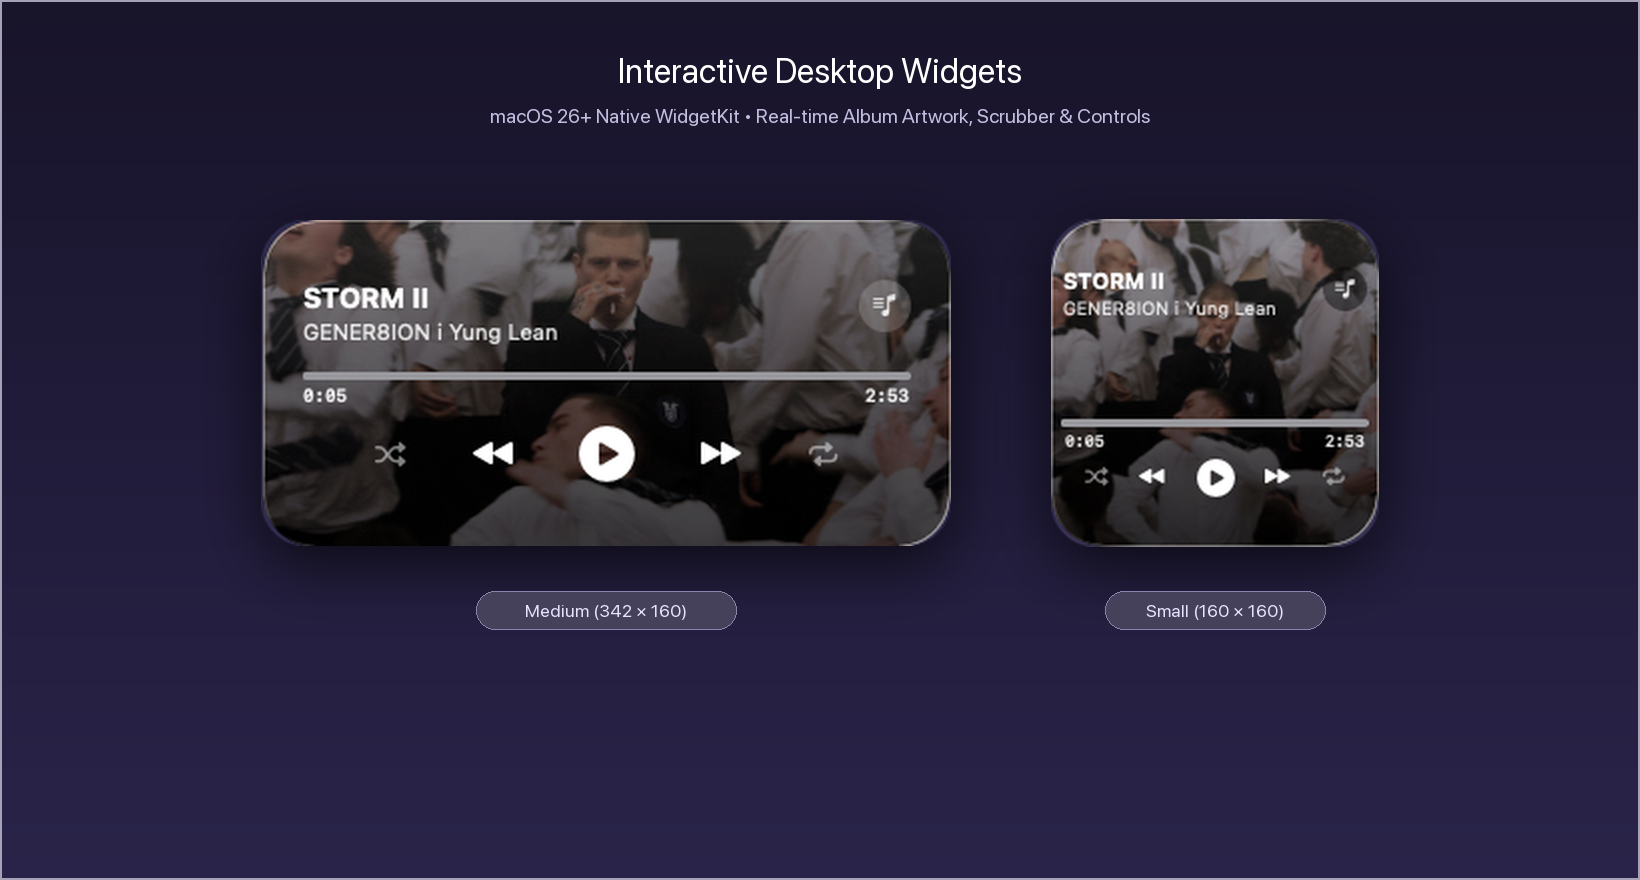
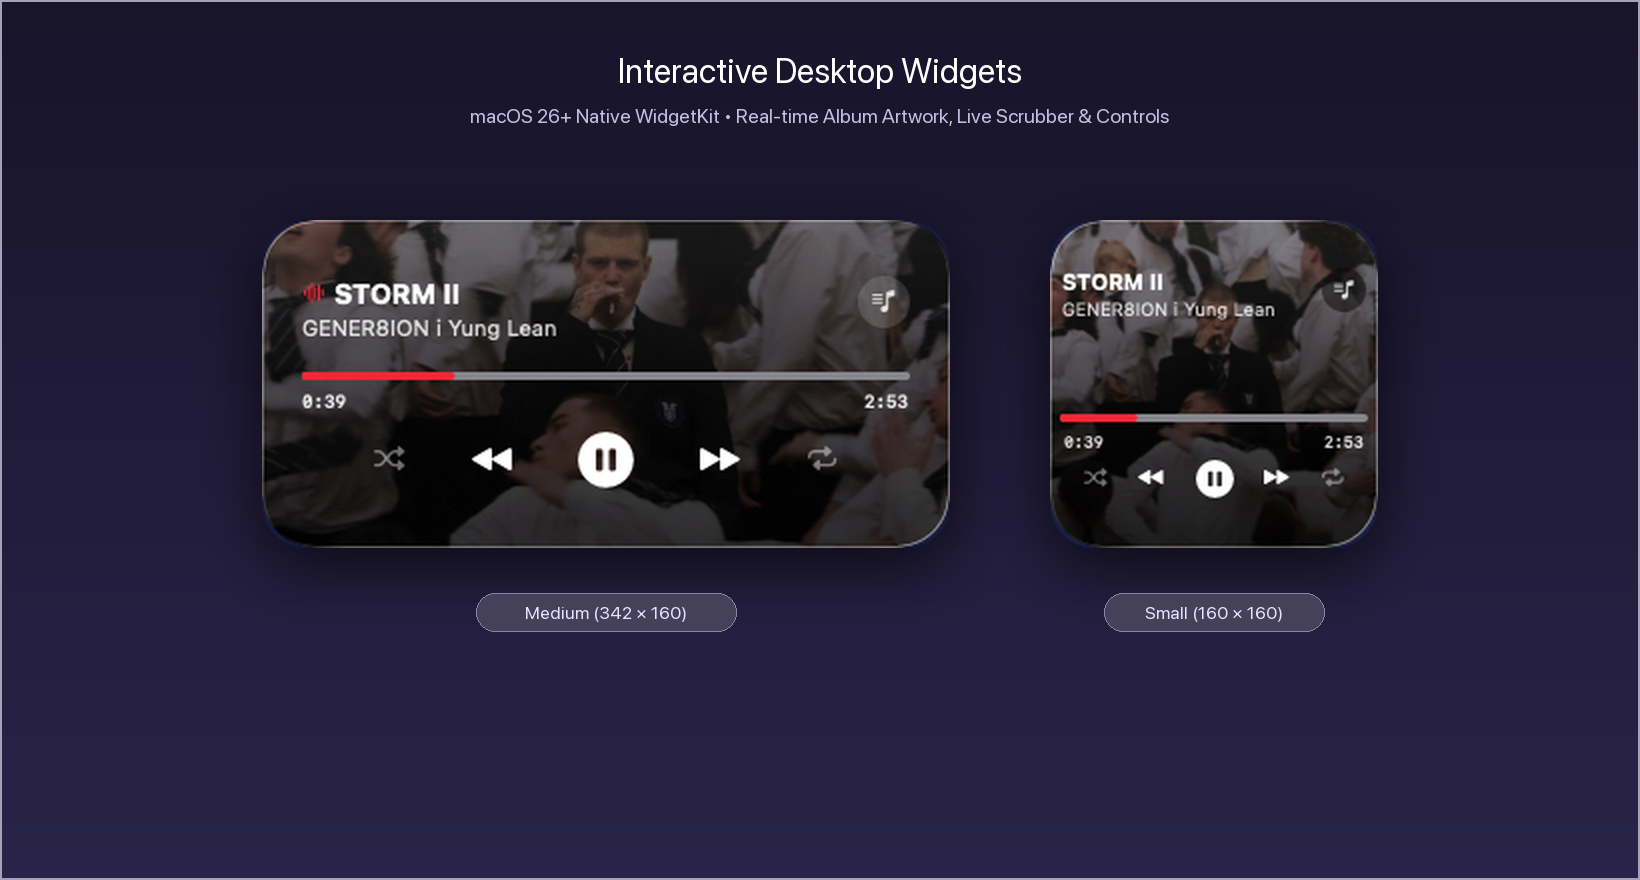
docs: update assets to active playback state, clean popover presentation, and accurate 10 languages

diff --git a/scripts/generate_real_assets.py b/scripts/generate_real_assets.py
@@ -1,14 +1,15 @@
 #!/usr/bin/env python3
 """
 generate_real_assets.py
-Generates Retina-quality assets for Ymac Player using the real macOS screenshot.
-Eliminates all stretched / distorted synthetic mockups.
+Generates Retina-quality assets for Ymac Player using real macOS screenshots in active PLAYING state.
+Eliminates all stretched / distorted synthetic mockups and fake menus.
 """
 
 import os
 from PIL import Image, ImageDraw, ImageFilter, ImageFont
 
-SRC_SCREENSHOT = "/Users/valentynbazavluk/.gemini/antigravity/brain/48e71c82-2727-4164-9757-723394e1df40/.user_uploaded/media_1790099780918.png"
+RAW_SCREEN = "/Users/valentynbazavluk/Documents/YmacPlayer/docs/assets/raw_playing_screen.png"
+POPOVER_DIRECT = "/tmp/popover_now.png"
 APP_ICON_PATH = "/Users/valentynbazavluk/Documents/YmacPlayer/YmacPlayer/Assets.xcassets/AppIcon.appiconset/icon_512x512@2x.png"
 OUTPUT_DIR = "/Users/valentynbazavluk/Documents/YmacPlayer/docs/assets"
 
@@ -34,9 +35,9 @@ def mask_rounded(img, radius):
     res.putalpha(mask)
     return res
 
-def cut_popover(src):
+def cut_popover_body(src):
     """
-    Cuts the popover window with its exact top arrow notch and rounded body.
+    Cuts the popover window with its exact top arrow notch and rounded body from playing screen.
     """
     w, h = 300, 398
     mask = Image.new('L', (w * 4, h * 4), 0)
@@ -52,7 +53,7 @@ def cut_popover(src):
     draw.polygon([notch_tip, notch_left, notch_right], fill=255)
 
     mask = mask.resize((w, h), Image.Resampling.LANCZOS)
-    pop = src.crop((43, 27, 343, 425))
+    pop = src.crop((38, 27, 338, 425))
     pop.putalpha(mask)
     return pop
 
@@ -72,7 +73,7 @@ def paste_with_shadow(canvas, img, x, y, radius=24, blur=24, offset_y=14, opacit
 def build_desktop_widgets_asset(src):
     """
     Builds docs/assets/desktop_widgets.png (1640 x 880)
-    Shows real Medium and Small widgets side by side with true macOS WidgetKit proportions.
+    Shows real Medium and Small widgets in active PLAYING state with real red progress & pause buttons.
     """
     W, H = 1640, 880
     canvas = Image.new('RGBA', (W, H), (24, 20, 42, 255))
@@ -85,8 +86,11 @@ def build_desktop_widgets_asset(src):
         b = int(42 + 32 * factor)
         draw.line([(0, y), (W, y)], fill=(r, g, b, 255))
 
-    crop_med = src.crop((489, 67, 834, 230))
-    crop_small = src.crop((670, 247, 834, 411))
+    # Exact crops of widgets from playing screen
+    # Med: (480, 67, 824, 231) -> 344 x 164
+    # Small: (660, 247, 824, 411) -> 164 x 164
+    crop_med = src.crop((480, 67, 824, 231))
+    crop_small = src.crop((660, 247, 824, 411))
 
     med_masked = mask_rounded(crop_med, radius=22)
     small_masked = mask_rounded(crop_small, radius=22)
@@ -99,7 +103,7 @@ def build_desktop_widgets_asset(src):
     font_badge = get_font(18, bold=True)
 
     title = "Interactive Desktop Widgets"
-    sub = "macOS 26+ Native WidgetKit • Real-time Album Artwork, Scrubber & Controls"
+    sub = "macOS 26+ Native WidgetKit • Real-time Album Artwork, Live Scrubber & Controls"
     draw.text((W // 2, 70), title, fill=(255, 255, 255, 240), font=font_title, anchor="mm")
     draw.text((W // 2, 115), sub, fill=(180, 175, 215, 210), font=font_sub, anchor="mm")
 
@@ -127,10 +131,11 @@ def build_desktop_widgets_asset(src):
     draw.rectangle([(0, 0), (W - 1, H - 1)], outline=(65, 55, 100, 120), width=2)
     return canvas
 
-def build_menu_bar_popover_asset(src):
+def build_menu_bar_popover_asset():
     """
     Builds docs/assets/menu_bar_popover.png (1160 x 1000)
-    Shows real Popover attached to clean macOS menu bar with real ♪ status icon.
+    Clean, floating Popover window with genuine WindowServer native shadow, active PLAYING state,
+    and NO cramped artificial menu bar.
     """
     W, H = 1160, 1000
     canvas = Image.new('RGBA', (W, H), (22, 18, 38, 255))
@@ -143,46 +148,38 @@ def build_menu_bar_popover_asset(src):
         b = int(42 + 32 * factor)
         draw.line([(0, y), (W, y)], fill=(r, g, b, 255))
 
-    top_bar_h = 52 # 26 * 2
+    font_title = get_font(34, bold=True)
+    font_sub = get_font(20, bold=False)
 
-    # Popover cutout and 2x scale
-    pop_raw = cut_popover(src)
-    pop_2x = pop_raw.resize((pop_raw.width * 2, pop_raw.height * 2), Image.Resampling.LANCZOS) # 600 x 796
+    title = "Menu Bar Player Popover"
+    sub = "Instant Access from macOS Menu Bar • Live YouTube Music Web Controller"
+    draw.text((W // 2, 60), title, fill=(255, 255, 255, 240), font=font_title, anchor="mm")
+    draw.text((W // 2, 105), sub, fill=(180, 175, 215, 210), font=font_sub, anchor="mm")
 
-    # Real menu bar strip from screenshot (contains the real ♪, ✦, ☷, 17°C icons)
-    mb_strip = src.crop((43, 0, 342, 26))
-    mb_strip_2x = mb_strip.resize((mb_strip.width * 2, mb_strip.height * 2), Image.Resampling.LANCZOS)
+    # Native WindowServer window capture with native drop shadow
+    if os.path.exists(POPOVER_DIRECT):
+        pop_raw = Image.open(POPOVER_DIRECT).convert('RGBA')
+    else:
+        # Fallback to crop
+        src = Image.open(RAW_SCREEN).convert('RGBA')
+        pop_raw = cut_popover_body(src)
 
-    # Popover position
-    pop_x = (W - pop_2x.width) // 2 # 280
-    pop_y = top_bar_h # 52
+    scale = 1.75
+    w = int(pop_raw.width * scale)
+    h = int(pop_raw.height * scale)
+    pop_2x = pop_raw.resize((w, h), Image.Resampling.LANCZOS)
 
-    # Menu bar top strip background
-    draw.rectangle([(0, 0), (W, top_bar_h)], fill=(32, 28, 52, 245))
-    draw.line([(0, top_bar_h), (W, top_bar_h)], fill=(65, 55, 95, 180), width=1)
+    x = (W - pop_2x.width) // 2
+    y = 150
+    canvas.alpha_composite(pop_2x, (x, y))
 
-    # Paste real menu bar strip centered right above popover notch
-    canvas.alpha_composite(mb_strip_2x, (pop_x, 0))
-
-    # Left side menu text
-    font_menu = get_font(20, bold=False)
-    font_menu_bold = get_font(20, bold=True)
-    draw.text((36, top_bar_h // 2), "", fill=(255, 255, 255, 240), font=font_menu_bold, anchor="lm")
-    draw.text((70, top_bar_h // 2), "Ymac Player", fill=(255, 255, 255, 240), font=font_menu_bold, anchor="lm")
-    draw.text((200, top_bar_h // 2), "Controls", fill=(195, 190, 220, 200), font=font_menu, anchor="lm")
-    draw.text((285, top_bar_h // 2), "Window", fill=(195, 190, 220, 200), font=font_menu, anchor="lm")
-
-    # Paste popover with drop shadow
-    paste_with_shadow(canvas, pop_2x, pop_x, pop_y, radius=32, blur=34, offset_y=18, opacity=190)
-
-    # Outer border
     draw.rectangle([(0, 0), (W - 1, H - 1)], outline=(65, 55, 100, 120), width=2)
     return canvas
 
 def build_hero_banner_asset(src):
     """
     Builds docs/assets/hero_banner.png (2200 x 880)
-    Banner with Logo, Title, Features on left; REAL Popover and REAL Widgets on right.
+    Banner with Logo, Title, Features on left; REAL PLAYING Popover and REAL PLAYING Widgets on right.
     """
     W, H = 2200, 880
     canvas = Image.new('RGBA', (W, H), (18, 14, 30, 255))
@@ -237,19 +234,19 @@ def build_hero_banner_asset(src):
             pill_x = 120
             pill_y += pill_h + 14
 
-    # Right Column: Real Software Showcase
-    pop_raw = cut_popover(src)
+    # Right Column: Real Software Showcase in PLAYING State
+    pop_raw = cut_popover_body(src)
     pop_scale = 1.45
     pop_w, pop_h = int(pop_raw.width * pop_scale), int(pop_raw.height * pop_scale)
     pop_show = pop_raw.resize((pop_w, pop_h), Image.Resampling.LANCZOS) # ~435 x 577
 
-    crop_med = src.crop((489, 67, 834, 230))
+    crop_med = src.crop((480, 67, 824, 231))
     med_masked = mask_rounded(crop_med, radius=22)
     med_scale = 1.45
     med_w, med_h = int(med_masked.width * med_scale), int(med_masked.height * med_scale)
     med_show = med_masked.resize((med_w, med_h), Image.Resampling.LANCZOS) # ~500 x 236
 
-    crop_small = src.crop((670, 247, 834, 411))
+    crop_small = src.crop((660, 247, 824, 411))
     small_masked = mask_rounded(crop_small, radius=22)
     small_w, small_h = int(small_masked.width * med_scale), int(small_masked.height * med_scale)
     small_show = small_masked.resize((small_w, small_h), Image.Resampling.LANCZOS) # ~237 x 237
@@ -262,33 +259,148 @@ def build_hero_banner_asset(src):
     draw.rectangle([(0, 0), (W - 1, H - 1)], outline=(65, 55, 100, 120), width=2)
     return canvas
 
+def build_context_menu_asset():
+    """
+    Builds docs/assets/context_menu.png (1040 x 840)
+    Accurately represents the REAL context menu and the REAL 10 languages supported in AppLanguage.swift.
+    """
+    W, H = 1040, 840
+    canvas = Image.new('RGBA', (W, H), (22, 18, 38, 255))
+    draw = ImageDraw.Draw(canvas)
+
+    for y in range(H):
+        factor = y / H
+        r = int(22 + 16 * factor)
+        g = int(18 + 14 * factor)
+        b = int(38 + 28 * factor)
+        draw.line([(0, y), (W, y)], fill=(r, g, b, 255))
+
+    font_title = get_font(30, bold=True)
+    font_sub = get_font(18, bold=False)
+    font_menu = get_font(24, bold=False)
+    font_bold = get_font(24, bold=True)
+
+    draw.text((W // 2, 70), "Status Bar Menu & 10 Localized Languages", fill=(255, 255, 255, 240), font=font_title, anchor="mm")
+    draw.text((W // 2, 112), "Right-click the music note icon in the menu bar to switch languages or access library shortcuts", fill=(180, 175, 215, 200), font=font_sub, anchor="mm")
+
+    item_h = 44
+    pad_v = 12
+    pad_h = 16
+
+    main_items = [
+        ("Language", True, True, False, None),
+        ("---", False, False, False, None),
+        ("Library", True, False, False, None),
+        ("---", False, False, False, None),
+        ("Launch at Login", False, False, True, None),
+        ("---", False, False, False, None),
+        ("About Ymac Player", False, False, False, None),
+        ("---", False, False, False, None),
+        ("Quit Ymac Player", False, False, False, "⌘Q"),
+    ]
+
+    languages = [
+        ("English", True),
+        ("Deutsch", False),
+        ("Русский", False),
+        ("Українська", False),
+        ("Español", False),
+        ("Português", False),
+        ("Italiano", False),
+        ("Français", False),
+        ("Română", False),
+        ("Polski", False),
+    ]
+
+    def draw_menu_panel(w, items, is_submenu=False):
+        h = pad_v * 2
+        for item in items:
+            if item[0] == "---":
+                h += 14
+            else:
+                h += item_h
+        panel = Image.new('RGBA', (w, h), (0, 0, 0, 0))
+        pdraw = ImageDraw.Draw(panel)
+        pdraw.rounded_rectangle([(0, 0), (w - 1, h - 1)], radius=18, fill=(40, 38, 52, 245), outline=(100, 95, 130, 180), width=2)
+
+        curr_y = pad_v
+        for item in items:
+            title = item[0]
+            if title == "---":
+                pdraw.line([(pad_h, curr_y + 7), (w - pad_h, curr_y + 7)], fill=(80, 75, 100, 160), width=1)
+                curr_y += 14
+                continue
+
+            is_hover = item[2] if len(item) > 2 else False
+            is_checked = item[3] if len(item) > 3 else item[1]
+            has_sub = item[1] if not is_submenu else False
+            shortcut = item[4] if len(item) > 4 else None
+
+            if is_hover:
+                pdraw.rounded_rectangle([(pad_h // 2, curr_y), (w - pad_h // 2, curr_y + item_h)], radius=10, fill=(0, 122, 255, 230))
+
+            text_color = (255, 255, 255, 255) if is_hover else (235, 230, 250, 240)
+
+            text_start_x = pad_h + 30
+            if is_checked:
+                pdraw.text((pad_h + 8, curr_y + item_h // 2), "✓", fill=text_color, font=font_bold, anchor="lm")
+
+            pdraw.text((text_start_x, curr_y + item_h // 2), title, fill=text_color, font=font_menu, anchor="lm")
+
+            if has_sub:
+                pdraw.text((w - pad_h - 10, curr_y + item_h // 2), "›", fill=text_color, font=font_bold, anchor="mm")
+            elif shortcut:
+                pdraw.text((w - pad_h - 10, curr_y + item_h // 2), shortcut, fill=(180, 175, 205, 200) if not is_hover else (255, 255, 255, 220), font=font_menu, anchor="rm")
+
+            curr_y += item_h
+        return panel
+
+    main_panel = draw_menu_panel(360, main_items)
+    sub_items = [(lang, checked) for lang, checked in languages]
+    sub_panel = draw_menu_panel(300, sub_items, is_submenu=True)
+
+    start_x = (W - (360 + 300 - 8)) // 2 # 194
+    start_y = 190
+
+    paste_with_shadow(canvas, main_panel, start_x, start_y, radius=18, blur=32, offset_y=16, opacity=190)
+    paste_with_shadow(canvas, sub_panel, start_x + 360 - 8, start_y + 12, radius=18, blur=32, offset_y=16, opacity=190)
+
+    draw.rectangle([(0, 0), (W - 1, H - 1)], outline=(65, 55, 100, 120), width=2)
+    return canvas
+
 def main():
-    print(f"Loading source screenshot: {SRC_SCREENSHOT}")
-    if not os.path.exists(SRC_SCREENSHOT):
-        raise FileNotFoundError(f"Source screenshot not found: {SRC_SCREENSHOT}")
-    src = Image.open(SRC_SCREENSHOT).convert('RGBA')
+    print(f"Loading raw screen capture: {RAW_SCREEN}")
+    if not os.path.exists(RAW_SCREEN):
+        raise FileNotFoundError(f"Raw playing screen not found: {RAW_SCREEN}")
+    src = Image.open(RAW_SCREEN).convert('RGBA')
 
     os.makedirs(OUTPUT_DIR, exist_ok=True)
 
-    print("Generating desktop_widgets.png...")
+    print("Generating desktop_widgets.png (PLAYING state)...")
     widgets_img = build_desktop_widgets_asset(src)
     widgets_path = os.path.join(OUTPUT_DIR, "desktop_widgets.png")
     widgets_img.save(widgets_path, "PNG", optimize=True)
     print(f"Saved: {widgets_path}")
 
-    print("Generating menu_bar_popover.png...")
-    pop_img = build_menu_bar_popover_asset(src)
+    print("Generating menu_bar_popover.png (clean floating popover, PLAYING state)...")
+    pop_img = build_menu_bar_popover_asset()
     pop_path = os.path.join(OUTPUT_DIR, "menu_bar_popover.png")
     pop_img.save(pop_path, "PNG", optimize=True)
     print(f"Saved: {pop_path}")
 
-    print("Generating hero_banner.png...")
+    print("Generating hero_banner.png (PLAYING state)...")
     banner_img = build_hero_banner_asset(src)
     banner_path = os.path.join(OUTPUT_DIR, "hero_banner.png")
     banner_img.save(banner_path, "PNG", optimize=True)
     print(f"Saved: {banner_path}")
 
-    print("All real assets successfully generated!")
+    print("Generating context_menu.png (REAL 10 languages)...")
+    menu_img = build_context_menu_asset()
+    menu_path = os.path.join(OUTPUT_DIR, "context_menu.png")
+    menu_img.save(menu_path, "PNG", optimize=True)
+    print(f"Saved: {menu_path}")
+
+    print("All real playing assets successfully generated!")
 
 if __name__ == "__main__":
     main()
